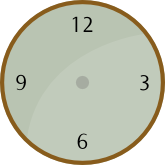
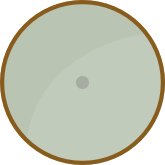
add numbers on clock widget

diff --git a/css/clock.css b/css/clock.css
@@ -1,5 +1,7 @@
 
 #Clock {
+	user-select: none;
+	-webkit-user-select: none;
 	position: fixed;
 	z-index: 3;
 	top:  40px;
@@ -8,7 +10,12 @@
 	height:165px;
 	opacity: 1;
 	background: url(../img/clock.png) no-repeat center;
-	transition: all 0.4s;
+	transition: all 0.8s;
+}
+body.loading
+#Clock {
+	opacity: 0;
+	transform: scale3d(0,0,1);
 }
 body.admin
 #Clock {
@@ -34,13 +41,88 @@ body.admin
 	transition: all 0.3s;
 }
 
-#Clock #Weekday {
+#Clock #ClockPeriod {
 	position: absolute;
-	width: 100%;
-	padding-top: 85px;
-	line-height: 1;
+	z-index:  99;
+	width:  40px;
+	height: 40px;
+	top:  50%;
+	left: 50%;
+	padding: 10px 0 0 0;
+	margin-left: -20px;
+	margin-top:  -20px;
+	line-height: 100%;
 	text-align: center;
-	font-size: 26px;
-	color: rgba(9,9,9, 0.4);
+	font-family: monospace;
+	font-size: 18px;
+	cursor: pointer;
+	color: rgba(255,255,255, 0.8);
+	background: #575;
+	border-radius: 20px;
+	box-sizing: border-box;
+	transition: 0.3s;
 }
+#Clock #ClockPeriod:hover {
+	background: #686;
+}
+#Clock #ClockPeriod:active {
+	color: rgba(255,255,255, 0.5);
+	background: #464;
+	transition: none;
+}
+
+#Clock b {
+	position: absolute;
+	top: 0;
+	left:0;
+	z-index: 99;
+	width: 20px;
+	height:20px;
+	margin: -10px 0 0 -10px;
+	font-size: 16px;
+	text-align: center;
+	text-shadow: 0 0 0;
+	cursor: pointer;
+	color: #333;
+	opacity: 0;
+	transition: all 0.3s;
+}
+#Clock:hover b {
+	opacity: 0.3;
+}
+/* main numbers */
+#Clock b.h12,
+#Clock b.h3,
+#Clock b.h6,
+#Clock b.h9 {
+	margin-top: -13px;
+	font-size:   22px;
+	opacity: 0.5;
+}
+#Clock b:hover {
+	opacity: 1;
+}
+#Clock b:active {
+	opacity: 0.8;
+	color: #000;
+	transform: scale3d(5,5,1);
+	transition: none;
+}
+/* align numbers */
+#Clock b.h12 { left: 50%; top: 12%}
+#Clock b.h1  { left: 68%; top: 19%}
+#Clock b.h2  { left: 81%; top: 32%}
+#Clock b.h3  { left: 87%; top: 50%}
+#Clock b.h4  { left: 81%; top: 68%}
+#Clock b.h5  { left: 68%; top: 81%}
+#Clock b.h6  { left: 50%; top: 87%}
+#Clock b.h7  { left: 32%; top: 81%}
+#Clock b.h8  { left: 19%; top: 68%}
+#Clock b.h9  { left: 12%; top: 50%}
+#Clock b.h10 { left: 19%; top: 32%}
+#Clock b.h11 { left: 32%; top: 19%}
+
+
+
+
 

diff --git a/js/clock.js b/js/clock.js
@@ -1,24 +1,51 @@
 
 function createClock() {
+	var today = new Date()
+	var lastClick = +new Date(1990,1,1)
+	var datetime  = {
+		    day: today.getDate(),
+		  month: today.getMonth(),
+		   year: today.getFullYear(),
+		  hours: today.getHours(),
+		minutes: today.getMinutes()
+	}
 	//
-	function update(hours, minutes) {
+	function update() {
+		var hours = datetime.hours
 		if (hours > 11)
 			hours -= 12
-		var h = (360 * hours)   / 12
-		var m = (360 * minutes) / 60
-		ClockHour  .style.transform = 'rotateZ('+h+'deg)'
-		ClockMinute.style.transform = 'rotateZ('+m+'deg)'
+		var minutes = datetime.minutes
+		//
+		var hRot = (360 * hours)   / 12
+		var mRot = (360 * minutes) / 60
+		ClockHour  .style.transform = 'rotateZ('+hRot+'deg)'
+		ClockMinute.style.transform = 'rotateZ('+mRot+'deg)'
+		ClockPeriod.innerHTML = datetime.hours < 12 ? 'AM' : 'PM'
 	}
 	//
 	Clock.addEventListener('click', function(e) {
-		var h = parseInt(Math.random()*24)
-		var m = parseInt(Math.random()*60)
-		m = m + (5 - m % 5)
-		update(h,m)
-		Clock.setAttribute('hours', h)
-		Clock.setAttribute('minutes', m)
+		if (e.target.nodeName !== 'B')
+			return false
+		var number = +e.target.innerHTML
+		var now = +new Date()
+		if (now - lastClick < 3000) { // 3 seconds
+			datetime.minutes = number * 5 // 12 * 5 = 60
+			now = +new Date(1990,1,1)
+		} else
+			datetime.hours = datetime.hours > 11 ? (number+12) : number
+		lastClick = now
+		update()
 	})
 	//
+	ClockPeriod.addEventListener('click', function(e) {
+		if (datetime.hours > 11)
+			datetime.hours -= 12
+		else
+			datetime.hours += 12
+		update()
+	})
+	//
+	update()
 }
 
 function getClockTime() {

diff --git a/index.html b/index.html
@@ -34,7 +34,7 @@
 		}
 	</style>
 </head>
-<body>
+<body class="loading">
 
 	<!-- BEGIN Admin Screen -->
 	<div id="AdminSidebar"></div>
@@ -109,9 +109,21 @@
 
 	<!-- BEGIN Clock Widget -->
 	<div id="Clock" hours="3" minutes="30" weekday="Monday">
-		<div id="Weekday">Monday</div>
+		<div id="ClockPeriod">-</div>
 		<div id="ClockHour"   class="hour"></div>
 		<div id="ClockMinute" class="minute"></div>
+		<b class="h1">1</b>
+		<b class="h2">2</b>
+		<b class="h3">3</b>
+		<b class="h4">4</b>
+		<b class="h5">5</b>
+		<b class="h6">6</b>
+		<b class="h7">7</b>
+		<b class="h8">8</b>
+		<b class="h9">9</b>
+		<b class="h10">10</b>
+		<b class="h11">11</b>
+		<b class="h12">12</b>
 	</div>
 	<!-- END Clock Widget -->
 

diff --git a/css/admin.css b/css/admin.css
@@ -112,8 +112,8 @@ body.admin #Logo {
 #Search {
 	position: fixed;
 	z-index: 1003;
-	top:   100px;
-	left:   20px;
+	top:   120px;
+	left: -200px;
 	width: 170px;
 	padding: 5px 10px 7px 36px;
 	font-size: 20px;
@@ -133,7 +133,7 @@ body.admin #Search:focus {
 }
 body.admin #Search {
 	opacity: 1;
-	top: 120px;
+	left: 20px;
 	transition: all 0.7s ease 0.5s;
 }
 

diff --git a/js/app.js b/js/app.js
@@ -43,6 +43,8 @@ var App = {};
 
 
 window.onload = function() {
+	document.body.classList.remove('loading')
+	//
 	// load map
 	mapInit();
 	// load admin screen
